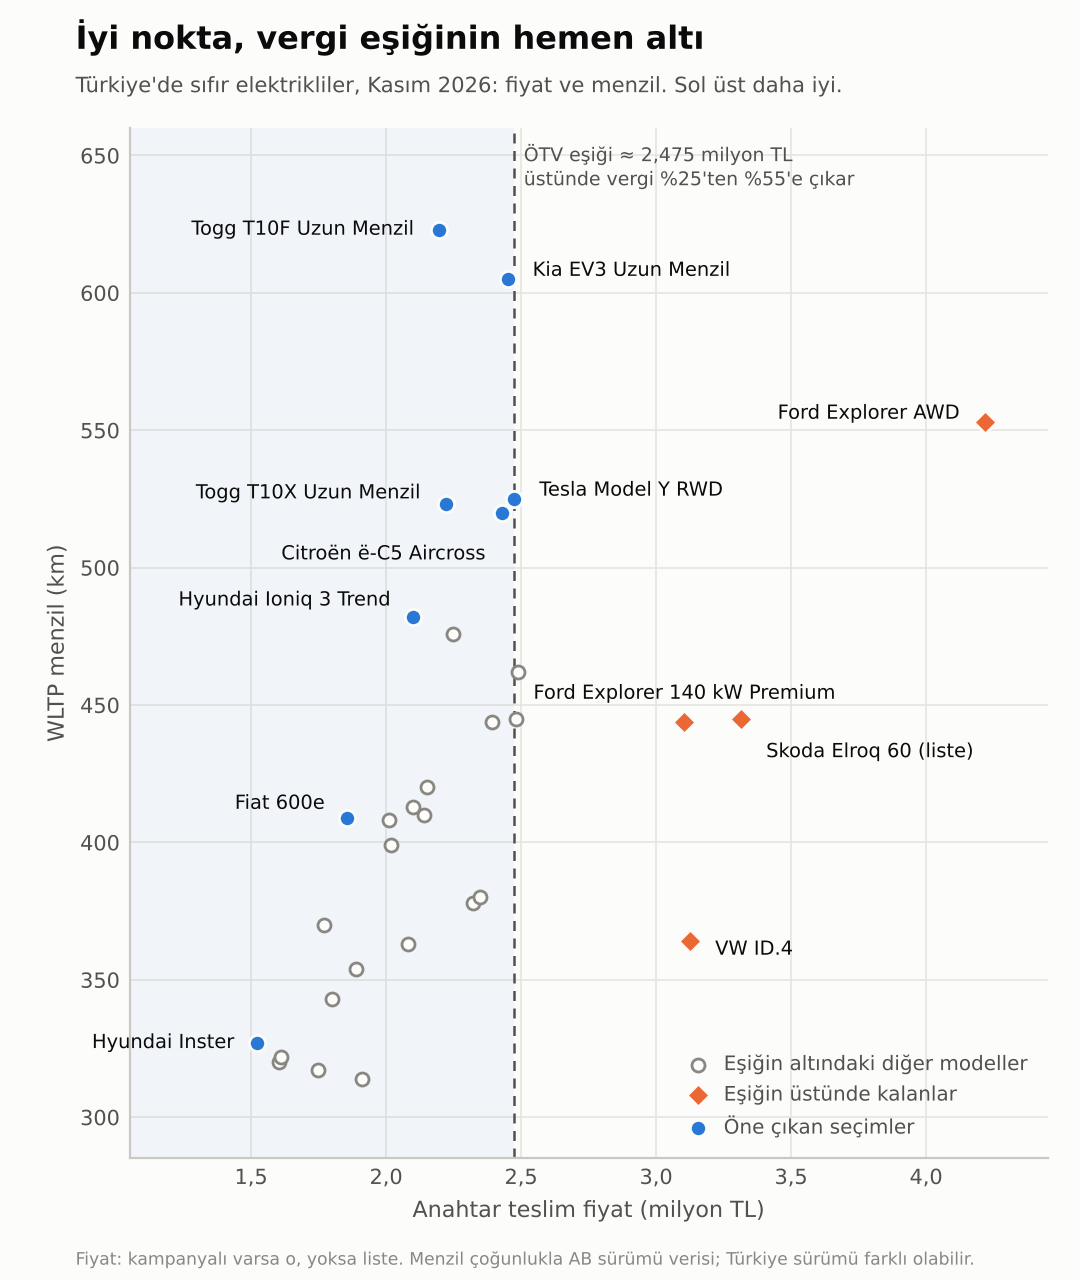
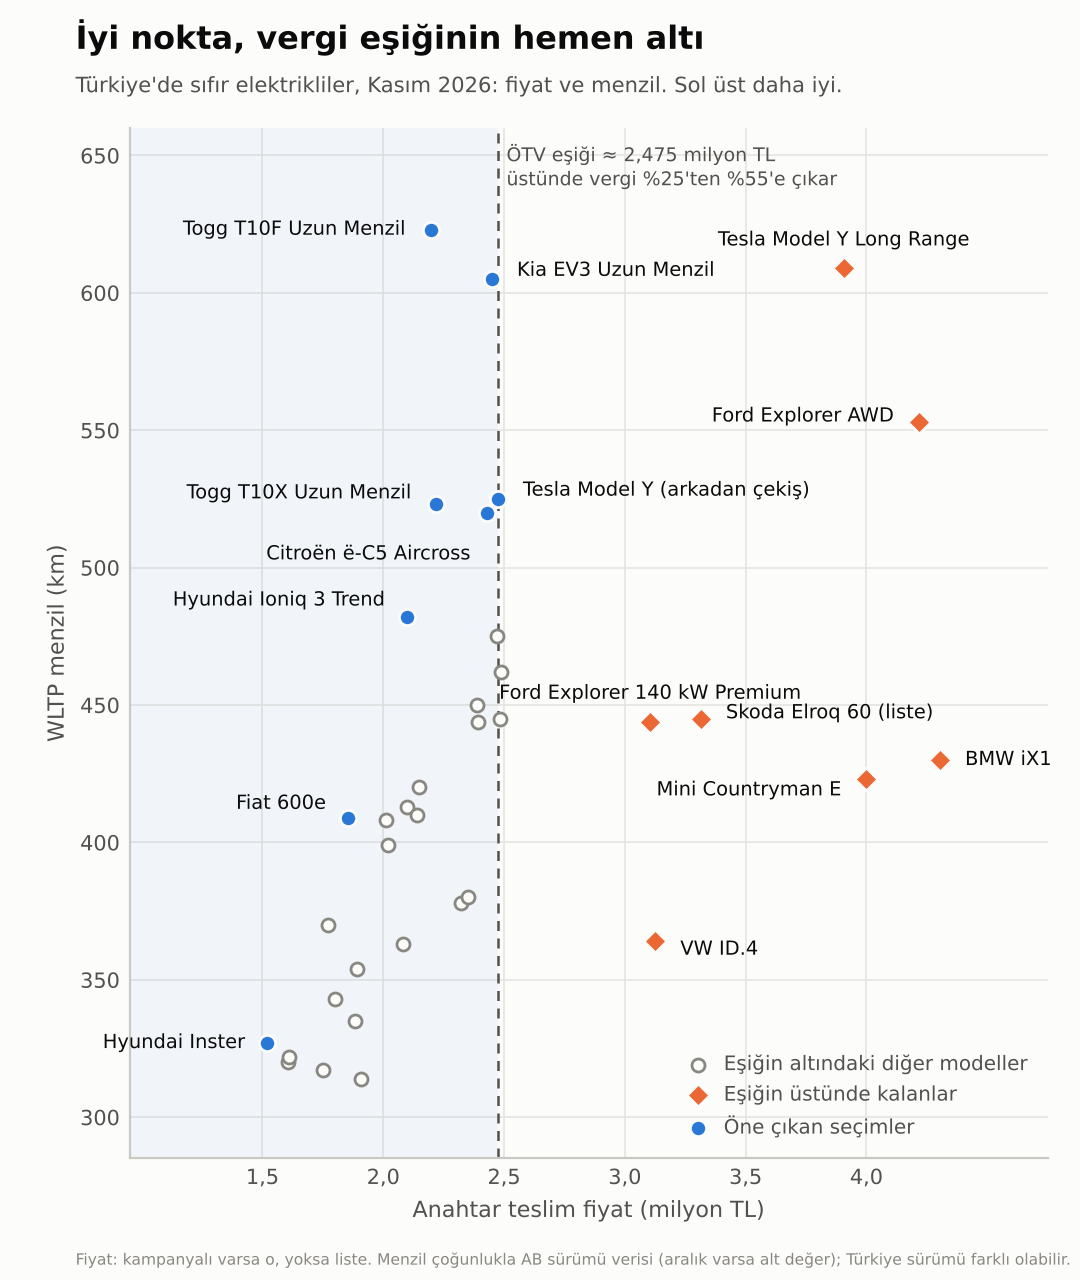
Elektrikli araç raporu: taslak RAPOR.md, güncel grafik, V3 doğrulama
Claude-Session: https://claude.ai/code/session_01YHSXREzu2WNeMgcrq2Nzgv

diff --git a/raporlar/2026-11-22_elektrikli-araclar-tr/RAPOR.md b/raporlar/2026-11-22_elektrikli-araclar-tr/RAPOR.md
@@ -1,0 +1,196 @@
+# Türkiye'de elektrikli otomobiller: en premium olanlar ve fiyatına göre en iyiler
+
+22 Kasım 2026. Fiyatlar Kasım 2026 anahtar teslim liste fiyatıdır; kampanya varsa ayrıca yazıldı.
+
+## Kısa yanıt
+
+- **En premium:** Zirvede Rolls-Royce Spectre var. Ardından en üst versiyon fiyatına göre Porsche Taycan (31,2 milyon TL), Porsche Cayenne Electric (21,1), Audi RS e-tron GT (17,4), BMW i7 (yaklaşık 16), Mercedes G 580 (15,7), Porsche Macan Electric (12,3), Mercedes EQS (11,8) ve BMW iX (11,6) geliyor.
+- **Fiyatına göre en iyi:** Togg T10F V1 Uzun Menzil (2.195.600 TL, 623 km). Sonra Kia EV3 Cool Uzun Menzil, Togg T10X V1 Uzun Menzil, Hyundai Ioniq 3 Trend ve Tesla Model Y arkadan çekiş.
+- **Neden:** Motoru 160 kW'ı geçmeyen elektriklilerde vergi, yaklaşık 2.475.000 TL'lik fiyatın üstünde %25'ten %55'e çıkıyor. İyi nokta bu eşiğin hemen altı; eşiğin üstünde aynı araç 700–830 bin TL pahalanıyor.
+- **Küçük bütçe:** En ucuz makul seçenek Hyundai Inster (kampanyalı 1.520.000 TL). Fiat 600e 1.854.900 TL'ye 409 km menzil veriyor.
+- Teknik verilerin çoğu Avrupa sürümünden; almadan önce fiyatı ve Türkiye sürümünün değerlerini bayiden teyit et.
+
+## Ne yapmalıyım
+
+1. **Bütçeni eşiğe göre kur.** 2,2–2,5 milyon TL ayırabiliyorsan en çok şeyi bu bantta alırsın. Eşiği geçen 160 kW altı araç en az 3,07 milyon TL oluyor; aradaki farkın çoğu vergi.
+2. **İhtiyaca göre seç:**
+   - Uzun yol ve en çok menzil: Togg T10F V1 Uzun Menzil ya da Kia EV3 Cool Uzun Menzil.
+   - Aile SUV'u: Togg T10X V1 Uzun Menzil, Citroën ë-C5 Aircross Plus ya da Tesla Model Y arkadan çekiş.
+   - Şehir içi ya da ikinci araç: Hyundai Inster; daha fazla menzil için Fiat 600e ya da Hyundai Ioniq 3 Trend.
+   - Premium marka şartsa: Volvo EX30 (2.472.390 TL), eşiğin altında kalan az sayıdaki premium markalı seçenekten biri.
+3. **Togg'da uzun menzili al.** T10F'te 310.620 TL farkla menzil 335 km'den 623 km'ye çıkıyor.
+4. **Bayiden yazılı teyit iste:** anahtar teslim fiyat, teslim tarihi, kampanya bitiş tarihi. Skoda Elroq kampanyası 30 Kasım'da bitiyor. Tesla'da teslim tarihi net değil.
+5. **Türkiye sürümünün menzilini, gücünü ve hızlı şarj değerini sor.**
+6. **Vergi için beklemeye somut bir neden yok.** 2027 başı için duyurulmuş bir eşik ya da oran değişikliği bulunamadı. Yine de eşik Cumhurbaşkanı Kararıyla değiştiği için her iki yönde de sürpriz olabilir.
+
+## 1. En premium elektrikliler
+
+Sıralama kuralı: önce sınıf (el yapımı ultra lüks en üstte), sonra modelin Türkiye'deki en üst versiyonunun fiyatı. Ölçüt marka konumu ve fiyat; hız ya da menzil sıralaması değil.
+
+| # | Model | Türkiye fiyatı (milyon TL) | En üst versiyon | Not |
+|---|---|---|---|---|
+| 1 | Rolls-Royce Spectre | Resmi fiyat yok; basın tahmini 24–30 | Black Badge: 485 kW, yaklaşık 102 kWh, 530 km | Satış haberi var, fiyat doğrulanmadı |
+| 2 | Porsche Taycan | 15,74 – 31,23 | Turbo GT: 760 kW, 97 kWh | Şubat 2026 listesi |
+| 3 | Porsche Cayenne Electric | 14,03 – 21,11 | Turbo: 850 kW, 113 kWh, 623 km | Teslimatın başladığı doğrulanmadı |
+| 4 | Audi e-tron GT ailesi | 12,14 – 17,41 | RS e-tron GT performance: 680 kW, 97 kWh | |
+| 5 | BMW i7 | 14,36 – 14,89; M70 yaklaşık 16 | M70: 500 kW, 112,4 kWh, 601–686 km | M70 Kasım listesinde yok |
+| 6 | Mercedes G 580 | 15,72 | 432 kW, 116 kWh, 434–473 km | Tek versiyon |
+| 7 | Porsche Macan Electric | 8,71 – 12,28 | Turbo | |
+| 8 | Mercedes EQS 500 4MATIC | 11,85 | 350 kW, 122 kWh, 731–869 km | Listedeki tek EQS |
+| 9 | BMW iX | 10,89 – 11,63 | M70: 485 kW, 521–600 km | |
+| 10 | Audi A6 e-tron | 8,16 – 10,06 | | |
+| 11 | Audi Q6 e-tron | 9,34 – 9,58 | | |
+| 12 | BMW i5 | 7,92 – 8,13 | | M60 fiyatı doğrulanamadı |
+| 13 | Kia EV9 | 6,54 – 7,87 | 283 kW | Premium marka değil, üst sınıf 7 koltuklu |
+| 14 | Hyundai Ioniq 9 | 6,04 – 7,30 | | Premium marka değil |
+| 15 | Mercedes EQE | 6,29 – 7,19 | EQE 350 4MATIC | |
+| 16 | Volvo ES90 | 7,03 | 500 kW | Ekim 2026 lansmanı |
+| 17 | BMW iX3 (yeni nesil) | 6,82 | 345 kW, 679–805 km | |
+
+kW motor gücü, kWh batarya kapasitesi, km ise WLTP menzilidir (WLTP: Avrupa'nın standart menzil testi).
+
+Karakter olarak ayırmak gerekirse: arka koltuk konforu ve sessizlik için Spectre, i7 ve EQS; performans için Taycan ve RS e-tron GT; gösterişli arazi aracı için G 580.
+
+**Listeye alamadıklarım** (Türkiye'de satışı ya da fiyatı doğrulanamadı):
+
+- Mercedes-Maybach EQS 680 SUV, EQS SUV ve EQE SUV: Mercedes'in Kasım listesinde yok.
+- Maserati GranTurismo Folgore (yaklaşık 15 milyon TL tahmini) ve Grecale Folgore (kaynaklarda 6,4 ile 9,25 milyon TL arasında çelişkili).
+- Lotus Eletre ve Emeya: Türkiye'de resmi satış kanıtı bulunamadı.
+- Range Rover Electric ve Ferrari'nin elektriklisi: Türkiye'de satışta değil.
+- Volvo EX90: Kasım listesinde yok. Lexus RZ: güncel fiyat yok.
+- Tesla Model S ve Model X: Türkiye'de resmi olarak hiç satılmadı.
+
+## 2. Fiyatına göre en iyiler
+
+### İyi noktayı vergi eşiği belirliyor
+
+ÖTV (özel tüketim vergisi) elektriklilerde iki şeye bakıyor: motor gücü ve matrah, yani verginin hesaplandığı vergisiz fiyat.
+
+| Motor gücü | Matrah 1.650.000 TL'ye kadar | Üstü |
+|---|---|---|
+| 160 kW'ı geçmeyen | %25 | %55 |
+| 160 kW'ı geçen | %65 | %75 |
+
+Hesap: 1.650.000 TL matrah, %25 ÖTV ve %20 KDV ile yaklaşık 2.475.000 TL anahtar teslim fiyat eder. Matrah 1 TL artarsa tüm tutar %55'ten vergilenir ve fiyat yaklaşık 3.069.000 TL'ye sıçrar. Üreticiler bu yüzden versiyonlarını eşiğin hemen altına diziyor:
+
+- Tesla Model Y arkadan çekiş: 2.474.985 TL, motor gücü 159 kW.
+- Ford Explorer 140 kW: Select donanımı 2.391.300 TL, aynı motor ve bataryayla Premium donanımı 3.104.800 TL. Fark 713.500 TL.
+- Skoda Elroq 60: liste 3.314.900 TL, kampanyalı 2.481.600 TL. Fark 833.300 TL.
+
+![Fiyat ve menzil grafiği](fiyat_menzil.png)
+
+### Sıralama
+
+"km başına TL", fiyatın WLTP menziline bölümüdür; düşük olan daha iyi. Tek ölçüt değildir, ama bataryaya ne ödediğini iyi gösterir. Gerçek kullanımda, özellikle otoyolda ve kışın, menzil WLTP değerinin altında kalır.
+
+| # | Model ve versiyon | Fiyat (TL) | WLTP (km) | km başına TL | Net batarya | Güç | Hızlı şarj | Euro NCAP |
+|---|---|---|---|---|---|---|---|---|
+| 1 | Togg T10F V1 Uzun Menzil | 2.195.600 | 623 | 3.524 | 85 kWh | 160 kW | 180 kW | 5 yıldız |
+| 2 | Kia EV3 Cool Uzun Menzil | 2.450.000 | 605 | 4.050 | 78 kWh | 150 kW | 128 kW | 4 yıldız (güvenlik paketiyle 5) |
+| 3 | Togg T10X V1 Uzun Menzil | 2.219.668 | 523 | 4.244 | 85 kWh | 160 kW | 180 kW | 5 yıldız |
+| 4 | Hyundai Ioniq 3 Trend | 2.099.000 | 482 | 4.355 | yaklaşık 58 kWh | 99,5 kW | yaklaşık 119 kW | Henüz sonuç yok |
+| 5 | Fiat 600e La Prima | 1.854.900 (liste 1.989.900) | 409 | 4.535 | 51 kWh | 115 kW | 100 kW | Doğrulanmadı |
+| 6 | Hyundai Inster Dynamic | 1.520.000 (liste 1.670.000) | 327 | 4.648 | 39 kWh | 71 kW | 73 kW | 4 yıldız |
+| 7 | Citroën ë-C5 Aircross Plus | 2.430.000 | 520 | 4.673 | 73 kWh | 157 kW | 160 kW | Doğrulanmadı |
+| 8 | Tesla Model Y arkadan çekiş | 2.474.985 | yaklaşık 525 | 4.714 | yaklaşık 60 kWh | 159 kW | 175 kW | Doğrulanmadı |
+
+Hızlı şarj sütunu, aracın doğru akım (DC) istasyonunda alabildiği en yüksek güçtür. Euro NCAP, Avrupa'nın bağımsız çarpışma testidir.
+
+**Neden bu sıra:**
+
+- **Togg T10F V1 Uzun Menzil.** Listedeki en düşük km başına maliyet, en uzun menzil, en hızlı şarj ve 5 yıldız. Garanti araçta 3 yıl ya da 100 bin km, bataryada 8 yıl ya da 160 bin km. Ocak–Ekim 2026'da 18.108 adetle en çok satan ikinci elektrikli. Zayıf yanı: kullanıcı şikâyetlerinde klima arızası, parça bekleme ve yazılım sorunları geçiyor (kullanıcı beyanı, doğrulanmadı).
+- **Kia EV3 Cool Uzun Menzil.** 605 km menzil eşiğin altında kalan fiyata geliyor. Kore üretimi olduğu için ek gümrük vergisi yok. Garanti yasal 2 yıl; Kia'nın "Özel Garanti" paketiyle 5 yıl ya da 150 bin km. Üst donanımları (3.199.000 TL ve üstü) eşiği aştığı için aynı değeri vermiyor.
+- **Togg T10X V1 Uzun Menzil.** T10F'in SUV gövdelisi; aynı batarya, 523 km. 26.079 adetle 2026'nın en çok satan elektriklisi.
+- **Hyundai Ioniq 3 Trend.** İzmit'te üretiliyor, Ekim 2026'da satışa çıktı. 2,1 milyon TL'ye 482 km veriyor. Garanti 5 yıl, bataryada 8 yıl ya da 160 bin km. Yeni model olduğu için çarpışma testi sonucu ve uzun dönem deneyimi yok.
+- **Fiat 600e La Prima.** 1,85 milyon TL'ye 409 km; 2 milyon TL altında menzil başına en ucuz araç. Fiyat kampanyalı.
+- **Hyundai Inster Dynamic.** Pazarın en ucuz elektriklisi. Şehir içi için yeterli; hızlı şarjı 73 kW ile yavaş, menzili 327 km. Euro NCAP 4 yıldız; yan darbe testinde sürücü kapısının açık kalması not edilmiş.
+- **Citroën ë-C5 Aircross Plus.** Bu fiyata büyük SUV gövdesi, 520 km menzil ve 160 kW hızlı şarj. Fiyat tek kaynaktan.
+- **Tesla Model Y arkadan çekiş.** Fiyatı tam eşiğe oturtulmuş. Menzil ve batarya değerleri Avrupa sürümünden; Türkiye sürümü için doğrulanamadı. Satışı 2025'teki 31.509 adetten 2026'nın ilk on ayında 6.118'e düştü, Ekim'de yalnızca 25 adet satıldı. Teslim süresini sormadan sipariş verme.
+
+### Duruma göre iyi olanlar
+
+| Model ve versiyon | Fiyat (TL) | Öne çıkan yanı |
+|---|---|---|
+| Kia EV2 Cool | 1.749.000 (liste 1.819.000) | 107,8 kW ile bu fiyatın en güçlüsü; 317 km |
+| Hyundai Ioniq 3 Select | 1.799.000 | Yerli üretim, 107,8 kW, 343 km |
+| Renault Megane E-Tech Techno EV60 | 2.386.000 | 160 kW, yaklaşık 450 km |
+| Volvo EX30 Ultra uzun menzil | 2.472.390 | Premium marka; 150 kW, yaklaşık 475 km (Avrupa verisi) |
+| Skoda Elroq 60 e-Prestige | 2.481.600 (30 Kasım'a kadar; liste 3.314.900) | 445 km; kampanya biterse değerini yitirir |
+| KGM Torres EVX | 2.487.420 | 462 km; 2026'nın en çok satan üçüncü elektriklisi |
+| Togg T10X ve T10F 4More | 3.217.937 – 3.218.137 | Çift motor, 320 kW; hızlanma fiyatına göre çok güçlü |
+
+### Fiyatına göre zayıf kalanlar
+
+- **Eşiğin üstündeki küçük premium SUV'lar:** Mini Countryman E 3.999.900 TL (423–462 km), BMW iX1 4.304.800 TL (430–475 km), Volvo EX40 4.609.229 TL, Mercedes EQA 4.612.000 TL, Audi Q4 e-tron 4.832.664 TL. Menzil olarak eşiğin altındaki araçlardan fazlasını vermiyorlar; fark marka ve vergi.
+- **VW ID.4 125 kW:** 3.126.000 TL'ye 364 km; km başına 8.588 TL ile tablonun en pahalılarından.
+- **Togg standart menzil versiyonları:** T10X 1.909.048 TL, 314 km. Uzun menzil farkı küçük, kazancı büyük.
+- **Tesla Model Y Long Range arkadan çekiş:** 3.906.000 TL, 609 km. Arkadan çekişli giriş versiyonundan 1,43 milyon TL pahalı.
+
+## 3. Pazarın durumu
+
+- Ocak–Ekim 2026'da 135.142 tam elektrikli otomobil satıldı. İlk üç: Togg T10X (26.079), Togg T10F (18.108), KGM Torres EVX (12.159). 2025'in lideri Tesla Model Y belirgin geriledi.
+- Kasım 2025'ten beri Avrupa Birliği ve serbest ticaret anlaşmalı ülkeler dışından gelen elektriklilere %30 ya da en az 8.500 dolar ek yük uygulanıyor. Bunun sonucunda MG, Toyota, Suzuki, Nissan ve Honda'nın Kasım listelerinde elektrikli model yok.
+- BYD'nin listesinde yalnızca Seal (4.077.000 TL, kampanyalı 3.772.000 TL) ve Tang (5.418.000 TL) fiyatlı. Dolphin, Atto 2, Atto 3, Seal U ve Sealion 7 fiyatsız duruyor. Manisa fabrikası yatırımı Haziran 2026'da askıya alındı.
+- Sonuç: bugün fiyat/performans listesini Türkiye, Avrupa Birliği ve Kore üretimi araçlar dolduruyor.
+
+## 4. Emin olunmayanlar ve doğrulama kapsamı
+
+**Doğrulama kapsamı.** Sonucun dayandığı 57 satır ikinci bir ajanla yeniden kontrol edildi: 32'si doğru çıktı, 17'si düzeltildi, 7'si doğrulanamadı, 1'i kısmen doğrulandı. Düzeltilenlerin başlıcaları:
+
+- Porsche fiyatları eski listedendi (Taycan Turbo GT 26,6 değil 31,2 milyon TL).
+- Mercedes EQS'in satılan versiyonu 450 değil 500 4MATIC.
+- Ford Explorer'ın ucuz fiyatları Premium değil Select donanımına ait.
+- Hyundai Inster'ın hızlı şarj gücü 120 değil 73 kW.
+- Togg T10F standart menzil 314 değil 335 km.
+
+**Emin olunmayanlar:**
+
+- Fiyatların çoğu fiyat ve haber sitelerinin Kasım 2026 listelerinden. Resmi sayfadan okunabilenler: Kia, Hyundai, BYD ve Porsche. Tesla, Ford, Fiat, Citroën, Opel, Renault ve Volvo siteleri otomatik erişimi engelledi.
+- Menzil, net batarya ve hızlı şarj değerlerinin çoğu Avrupa sürümüne ait.
+- ÖTV eşiği üç ikincil kaynakta tutarlı (10115 sayılı Karar, 24 Temmuz 2025), ancak Resmi Gazete tablosu doğrudan okunamadı. 2026'da değişiklik bulunamadı; olmadığı kanıtlanmış değil.
+- Rolls-Royce Spectre fiyatı basın tahmini. BMW i7 M70 ve i5 M60 fiyatları Kasım listesinde yok.
+- Tesla'nın teslim tarihi doğrulanamadı (bir kaynak Şubat–Mart 2027 diyor).
+- ë-C5 Aircross, Megane E-Tech ve Renault 5 fiyatları tek kaynaktan.
+- MG4 için "1.369.000 TL'den başlayan" bir bayi kampanyası haberi var; doğrulanamadı, listeye alınmadı.
+- Servis ağı genişliği ve ikinci el değeri bu raporda incelenmedi.
+
+## 5. Kaynaklar
+
+Fiyat listeleri (Kasım 2026):
+
+- Toplu liste: https://www.donanimhaber.com/elektrikli-araba-fiyatlari--159687
+- Togg: https://www.milligazete.com.tr/togg-kasim-2026-fiyat-listesi-belli-oldu-t10x-ve-t10f-kac-tl-faizsiz-kredi-kampanyasi-ne-kadar
+- Tesla: https://webtekno.com/tesla-kasim-2026-fiyat-listesi-h228466.html
+- Kia: https://www.kia.com/tr/modeller/ev2/fiyat-listesi.html
+- Hyundai: https://www.webtekno.com/hyundai-kasim-2026-fiyat-listesi-h228271.html
+- Citroën: https://www.webtekno.com/kasim-2026-citroen-fiyat-listesi-h228205.html
+- Fiat: https://webtekno.com/kasim-2026-fiat-fiyat-listesi-h228142.html
+- Renault: https://www.webtekno.com/renault-kasim-2026-fiyat-listesi-h228073.html
+- Volvo: https://www.webtekno.com/volvo-kasim-2026-fiyat-listesi-h228322.html
+- BMW: https://www.webtekno.com/bmw-kasim-2026-fiyat-listesi-h228074.html
+- Mini: https://webtekno.com/mini-2026-fiyat-listesi-h228388.html
+- Audi: https://www.webtekno.com/kasim-2026-audi-fiyat-listesi-h228118.html
+- Mercedes: https://www.webtekno.com/mercedes-benz-kasim-2026-fiyat-listesi-h228664.html
+- BYD: https://www.bydauto.com.tr/fiyat-listesi
+- Porsche: https://configurator.porsche.com/tr-TR/mode/model/Y1AFT1
+- Rolls-Royce haberi: https://tr.motor1.com/news/780647/rr-spectre-black-badge-turkiyede/
+
+Vergi ve satış:
+
+- ÖTV kararı: https://www.alomaliye.com/2025/07/24/4760-sayili-otv-ekli-ii-sayili-liste-otv-oranlari-karar-sayisi-10115/
+- Gümrük kararı: https://www.karar.com/ekonomi-haberleri/ithal-otomobilde-yeni-gumruk-vergisi-donemi-1993499
+- Satış, Ocak–Ekim 2026: https://www.tamindir.com/haber/turkiye-ekim-2026-en-cok-satilan-elektrikli-arabalar_112609/
+- Satış, 2025: https://www.webtekno.com/2025-turkiye-en-cok-satilan-elektrikli-otomobiller-h210273.html
+- BYD yatırımı: https://www.donanimhaber.com/takvim-isliyor-byd-ye-saglanan-devlet-destekleri-iptal-edilecek--208190
+
+Teknik veri: https://ev-database.org ve https://www.euroncap.com. Satır bazında kaynaklar `ek/` klasöründeki defterlerde.
+
+## 6. Devam notu
+
+- Bulgu: en premium elektrikli Rolls-Royce Spectre, ardından Porsche Taycan; fiyatına göre en iyi Togg T10F V1 Uzun Menzil, ardından Kia EV3 ve Togg T10X.
+- Ana açıklama: 160 kW altı araçlarda yaklaşık 2.475.000 TL'lik ÖTV eşiği; iyi seçimler bu eşiğin hemen altında.
+- Dosyalar: `RAPOR.md` (bu dosya), `fiyat_menzil.png` (grafik), `ek/` (A–D ve G üretici defterleri, V1–V3 doğrulama tabloları).
+- Açık kalanlar: Türkiye sürümlerinin teknik verileri, Tesla teslim süresi, Maybach, Lotus ve Maserati'nin satış durumu, servis ağı ve ikinci el değeri.
+- Fiyatlar aylık değişiyor; Aralık 2026 listeleri ve 2027 başı vergi düzenlemesi çıkınca tablo yenilenmeli.
+
+Maliyet: Seviye M · 5 üretici (sonnet) + 3 doğrulayıcı (sonnet) + 1 eleştirmen (opus) + 1 sayfa okuyucu (haiku) · 2 üretim dalgası · kontrol noktasını geçenler: giriş sınıfı üreticisi (36/35, fiyat çelişkisi) ve üç doğrulayıcı (50/40, 62/40, 60/34; satırların çoğunda çelişki ve eksik teknik veri vardı) · aşılan sınır yok.

diff --git a/raporlar/2026-11-22_elektrikli-araclar-tr/ek/V3_kalan_dogrulama.md b/raporlar/2026-11-22_elektrikli-araclar-tr/ek/V3_kalan_dogrulama.md
@@ -1,0 +1,22 @@
+araç: 60/34 (34'te 12 satır kapanmamıştı; teknik alanlar ve 1-2. satır için 2N içinde devam edildi)
+
+no | karar | doğrulanmış değer(ler) | kaynak URL | not
+1 | DOĞRU | 160 kW altı: 1.650.000 TL'ye kadar %25, üstü %55; 160 kW üstü: %65 / %75; karar 10115, RG 32965, 24.07.2025 | https://www.ntv.com.tr/otomobil/galeri-otomobillerde-otv-oranlari-degisti-elektrikli-araclarin-fiyati-artacak,z7YuI2yABUSsYYh6YxOeUQ ; https://www.memurlar.net/haber/1141658/ ; https://www.alomaliye.com/2025/07/24/4760-sayili-otv-ekli-ii-sayili-liste-otv-oranlari-karar-sayisi-10115/ | Birincil tablo görsel, okunamadı; PwC 403; 2026'da eşik/oran değişikliği bulunamadı, yalnız Temmuz 2026 asgari maktu ÖTV.
+2 | DOĞRU (Prime 476 km DOĞRULANAMADI) | Fiyatlar doğru (Kasım listesi); güç 107,8/99,5 kW; menzil WLTP 343/482 km; batarya 42,2/61 kWh brüt, net ~41/58; DC en çok ~110/119 kW (10-80% ~29 dk); garanti 5 yıl üretici, batarya 8 yıl/160.000 km; Euro NCAP yok | https://www.webtekno.com/hyundai-kasim-2026-fiyat-listesi-h228271.html ; https://www.hyundai.com/tr/tr/modeller/ioniq3/menzil-ve-sarj.html ; https://ev-database.org/car/3555/Hyundai-IONIQ-3-61-kWh | Net ve DC kW Avrupa verisi (ev-database, Hyundai spec sheet snippet, fleetnews 115 kW); Prime için 482 üst değer, 476 görülmedi; Euro NCAP bulunamadı.
+3 | DOĞRU | EX30 Ultra P4 Long Range RWD 2.472.390; 150 kW; 69 kWh brüt (~64 net, AB verisi); WLTP TR için doğrulanamadı (AB ~475-480) | https://www.webtekno.com/volvo-kasim-2026-fiyat-listesi-h228322.html ; https://www.volvocars.com/tr/cars/ex30-electric/specifications/ | Volvo TR sayfası 403, özet arama; Türkiye'ye özgü 150 kW sürüm, WLTP resmi görülmedi.
+4 | DOĞRU | Megane E-Tech Techno EV60 220 hp (160 kW) 2.386.000; batarya 60 kWh (net ~60); WLTP ~450 km (Renault 450-460) | https://www.webtekno.com/renault-kasim-2026-fiyat-listesi-h228073.html ; https://ev-database.org/car/3132/Renault-Megane-E-Tech-EV60-220hp-TU2025 | Fiyat teyitli; kWh/menzil AB verisi, TR sayfasında yok.
+5 | DOĞRU | T10X V2 RWD UM 2.411.000; T10X 4More 3.218.137; T10F V2 RWD UM 2.370.930; T10F 4More 3.217.937; 4More 320 kW (435 PS), 700 Nm; 0-100: T10X 4,8 sn, T10F 4,1 sn | https://www.milligazete.com.tr/togg-kasim-2026-fiyat-listesi-belli-oldu-t10x-ve-t10f-kac-tl-faizsiz-kredi-kampanyasi-ne-kadar ; https://evkx.net/models/togg/t10f/t10f_4more_awd/ | T10X V2 fiyatlarını milligazete özetinden aldım; güç/hızlanma veri siteleri, resmi değil (Togg'un 7,5 sn notu karışık).
+6 | DÜZELTİLDİ | T10F V1 RWD Standart 1.884.980; 52,4 kWh brüt (~50 net); WLTP 335 km (314 km T10X'e ait); 160 kW | https://ev-database.org/car/3304/TOGG-T10F-Standard-Range-RWD ; https://www.milligazete.com.tr/togg-kasim-2026-fiyat-listesi-belli-oldu-t10x-ve-t10f-kac-tl-faizsiz-kredi-kampanyasi-ne-kadar | 314 km T10X rakamı; T10F için 335 km.
+7 | DOĞRU (güç ve teslimat düzeltildi) | Fiyatlar doğru (RWD 2.474.985; PLR RWD 3.906.000; AWD 4.620.000; Perf. 4.966.500); RWD gücü 159 kW (~216 PS), 160 kW altında; LR RWD WLTP 609 (Tesla TR) / 622 (tanıtım sayfası); teslimat tarihi doğrulanamadı | https://webtekno.com/tesla-kasim-2026-fiyat-listesi-h228466.html ; https://www.tesla.com/tr_tr/support/power-consumption | "220 PS/160 kW" yanlış; 159 kW değeri arama özeti (Tesla sayfası 403). Şubat-Mart 2027 teslimat sayfalarda yok.
+8 | DOĞRU | EV3 Elegance Long Range 3.199.000; EV3 GT-Line LR 3.790.000; EV6 Elegance SR 4x2 125 kW 3.790.000 | https://www.donanimhaber.com/elektrikli-araba-fiyatlari--159687 | kia.com/tr erişilmedi; yalnız toplu liste (Kasım 2026).
+9 | DÜZELTİLDİ | Ioniq 6 Advance SR 125 kW: Hyundai Kasım listesi 3.246.000 (kampanyalı 3.243.000); donanimhaber 3.225.000 | https://www.webtekno.com/hyundai-kasim-2026-fiyat-listesi-h228271.html ; https://www.donanimhaber.com/elektrikli-araba-fiyatlari--159687 | İki kaynak çelişiyor; üretici listesini yansıtan 3.246.000 tercih edildi.
+10 | DOĞRU | Enyaq 60 e-Prestige 204 PS 4.099.900; ID.7 210 kW 4.415.000 | https://www.donanimhaber.com/elektrikli-araba-fiyatlari--159687 | Üretici sayfası bakılmadı.
+11 | DOĞRU | e-3008 Allure 3.384.500; e-5008 Allure 3.573.500; Grandland Electric Edition 3.200.000 (157 kW) | https://www.donanimhaber.com/elektrikli-araba-fiyatlari--159687 | Tek kaynak, birbirini tutan satırlar.
+12 | DOĞRU | Countryman E Favoured Plus 3.999.900; 150 kW/204 BG; 66,5 kWh brüt, 64,7 net; WLTP 462 km (423-462) | https://webtekno.com/mini-2026-fiyat-listesi-h228388.html ; https://www.press.bmwgroup.com/global/article/detail/T0442879EN/the-mini-countryman-e-in-favoured-trim:-fully-electric-and-versatile | Teknik veri AB'ye ait; TR menzil sayfası yok.
+13 | DOĞRU | iX1 eDrive20 Sport Line 4.304.800 (150 kW; 64,8 net; WLTP 430-475 km); EQA 250+ Night 4.612.000; Q4 e-tron SUV 4.832.664; EX40 Ultra Single Extended 4.609.229 | https://www.webtekno.com/bmw-kasim-2026-fiyat-listesi-h228074.html ; https://www.webtekno.com/kasim-2026-audi-fiyat-listesi-h228118.html ; https://www.donanimhaber.com/elektrikli-araba-fiyatlari--159687 | EQA yalnız donanimhaber; iX1 WLTP aralık, tek rakam verme.
+14 | DOĞRU | Ocak-Ekim 2026: T10X 26.079; T10F 18.108; Torres 12.159; toplam 135.142 | https://www.tamindir.com/haber/turkiye-ekim-2026-en-cok-satilan-elektrikli-arabalar_112609/ | Toplam arama özetinden; bir haber 135.979 diyor, ODMD bülteni görülmedi.
+15 | DOĞRU | 2025 Model Y 31.509 (T10X 27.583; toplam 191.960); Ekim 2026 Model Y 25; Ocak-Ekim Model Y 6.118 | https://www.webtekno.com/2025-turkiye-en-cok-satilan-elektrikli-otomobiller-h210273.html | 25 adet arama özeti; ODMD Tesla verisini tahmini veriyor.
+16 | DOĞRU | 10436 sayılı Karar, RG 22.09.2025; 60 gün sonra (22.11.2025) yürürlük; EV %30 ya da en az 8.500 $ (yüksek olan) | https://www.karar.com/ekonomi-haberleri/ithal-otomobilde-yeni-gumruk-vergisi-donemi-1993499 ; https://www.sozcu.com.tr/bugun-yururluge-girdi-bazi-modellere-500-bin-lirayi-asan-zam-p261433 | Yatırım teşvik belgeli ithalatta uygulanmaz; resmi metin görülmedi.
+17 | DÜZELTİLDİ | Fiyatlı: Seal 390 kW AWD 4.077.000 (kampanyalı 3.772.000), Tang 380 kW 5.418.000; Dolphin, Atto 2, Atto 3, Seal U EV, Sealion 7 menüde var ama fiyatsız | https://www.bydauto.com.tr/fiyat-listesi ; https://www.webtekno.com/kasim-2026-byd-fiyat-listesi-h228319.html | "Satış dışı" kanıtlanmadı, yalnız fiyatsız; Sealion 7 listeye eklendi.
+
+Raporu değiştirecek bulgular: (a) Togg T10F V1 Standart WLTP 335 km (314 T10X'e ait). (b) Tesla Model Y RWD gücü 159 kW (~216 PS); 160 kW altında ama "220 PS/160 kW" yanlış; teslimat tarihi doğrulanamadı. (c) Ioniq 6 Advance fiyatı 3.246.000 (donanimhaber 3.225.000). (d) BYD: yalnız "fiyatsız" denebilir, satış dışı denemez; Sealion 7 de fiyatsız. (e) Togg 4More: T10X 4,8 sn, T10F 4,1 sn, 320 kW. (f) Ioniq 3: WLTP, net 41/58 kWh, Euro NCAP yok. (g) ÖTV oranları ikincil kaynaklarla tutarlı; birincil tablo okunamadı.
